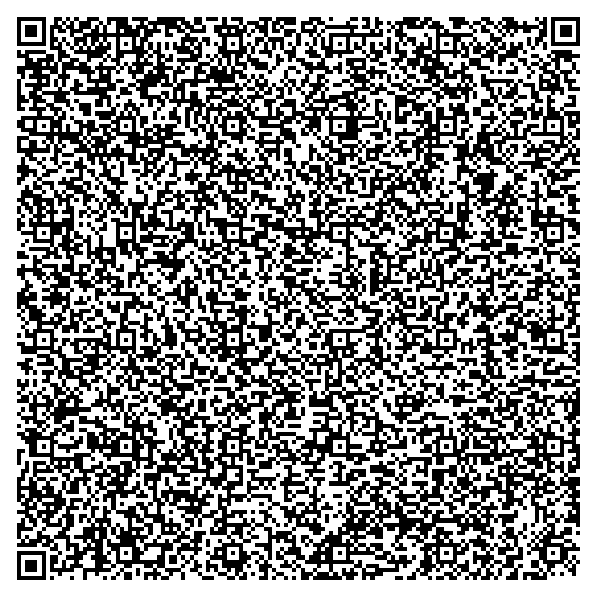
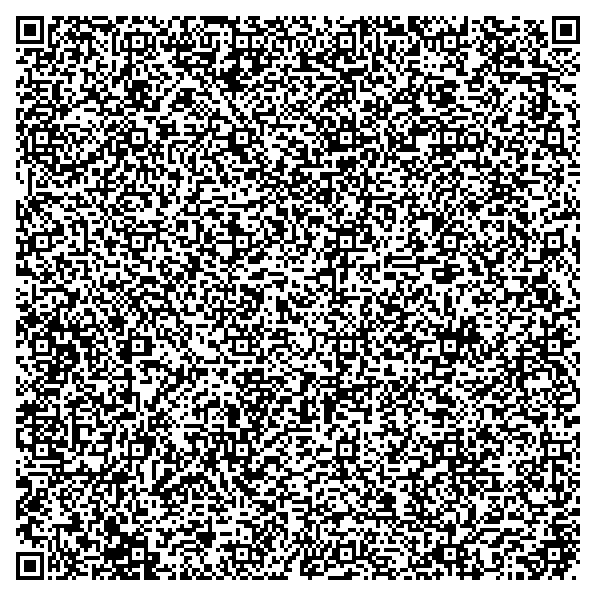
programacion movil

diff --git a/index.html b/index.html
@@ -23,7 +23,7 @@
     </div>
     <div class="position-absolute top-50 start-50 translate-middle" id="contenedorQR" style="display: none;">
         <p class="mb-2">¡Escanea este código QR y descarga la app!</p>
-        <img src="https://cdn.discordapp.com/attachments/715711671812751400/1178139070673731694/A4A3bZ2a45ZNAAAAAElFTkSuQmCC.png?ex=65750e83&is=65629983&hm=d89511ae927249add7eda5788890214d47461fb590036a2fa5fdf40ecdc9d35e"
+        <img src="qr.png" class="img-fluid"
             alt="Código QR">
     </div>
 </body>
